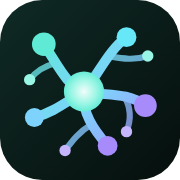
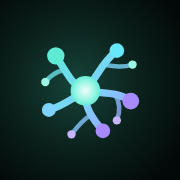
Wygląd: czat (dymki, puste stany z przykładami), mówca AI, dopracowany znak i ikony aplikacji

diff --git a/web/src/pages/Chat.tsx b/web/src/pages/Chat.tsx
@@ -1,5 +1,7 @@
 import { useEffect, useMemo, useRef, useState, useSyncExternalStore } from 'react'
 import { Card, PageHeader } from '../components/ui'
+import { Icon } from '../components/Icon'
+import { LogoMark } from '../components/Logo'
 import { L, useI18n } from '../i18n'
 import { FACT_CONF, useBrain } from '../myc/brain'
 import { chatConsent, convId, logExchange } from '../myc/chatlog'
@@ -709,14 +711,24 @@ export default function Chat() {
       <Card>
         <div className="max-h-[60vh] min-h-48 space-y-3 overflow-y-auto pr-1" data-testid="chat-log">
           {turns.length === 0 && (
-            <p className="text-sm text-slate-500">
-              {en
-                ? 'Say hi, ask “Is Riga the capital of Latvia?”, “what is a wombat?”, “what is 15% of 240?”, or paste a paragraph.'
-                : 'Przywitaj się, zapytaj „Czy Ryga jest stolicą Łotwy?”, „co to jest wombat?”, „ile to 15% z 240?” albo wklej akapit tekstu.'}
-            </p>
+            <div className="flex flex-col items-center gap-3 py-8 text-center">
+              <LogoMark size={52} className="logo-live drop-shadow-[0_0_24px_rgb(94_234_212/0.3)]" />
+              <p className="max-w-md text-sm text-slate-400">
+                {en
+                  ? 'Say hi, ask “Is Riga the capital of Latvia?”, “what is a wombat?”, “what is 15% of 240?”, or paste a paragraph.'
+                  : 'Przywitaj się, zapytaj „Czy Ryga jest stolicą Łotwy?”, „co to jest wombat?”, „ile to 15% z 240?” albo wklej akapit tekstu.'}
+              </p>
+              <div className="flex flex-wrap justify-center gap-2">
+                {(en ? ['Is Riga the capital of Latvia?', 'what is a wombat?', 'what is 15% of 240?'] : ['Czy Ryga jest stolicą Łotwy?', 'co to jest wombat?', 'ile to 15% z 240?']).map((q) => (
+                  <button key={q} type="button" onClick={() => setInput(q)} className="chip border-spore/25 px-3 py-1.5 text-slate-200 hover:border-spore/50 hover:bg-spore/10">
+                    {q}
+                  </button>
+                ))}
+              </div>
+            </div>
           )}
           {turns.map((t, i) => (
-            <div key={i} className={t.role === 'user' ? 'ml-auto max-w-[85%] whitespace-pre-wrap rounded-2xl bg-spore/10 px-3 py-2 text-sm text-slate-100' : 'max-w-[95%]'}>
+            <div key={i} className={t.role === 'user' ? 'ml-auto max-w-[85%] whitespace-pre-wrap rounded-2xl rounded-br-md bg-gradient-to-br from-spore/20 to-sky/10 px-3.5 py-2.5 text-sm text-slate-50 ring-1 ring-spore/20' : 'max-w-[95%] rounded-2xl rounded-bl-md bg-white/[0.03] px-3.5 py-2.5 ring-1 ring-white/[0.06]'}>
               {t.role === 'user' && (
                 <>
                   {t.text}
@@ -753,7 +765,7 @@ export default function Chat() {
                       </span>
                     )}
                   </div>
-                  <div className="whitespace-pre-wrap text-sm text-slate-200" data-testid="reply">
+                  <div className="whitespace-pre-wrap text-[0.95rem] leading-relaxed text-slate-100" data-testid="reply">
                     {t.text ||
                       (busy && i === turns.length - 1
                         ? t.mode === 'local'
@@ -789,7 +801,7 @@ export default function Chat() {
                     <button
                       disabled={t.saved}
                       onClick={() => save(i)}
-                      className="mt-2 rounded-lg border border-violet/40 px-3 py-1 text-xs text-violet disabled:opacity-60"
+                      className="mt-2 rounded-full border border-violet/40 px-3 py-1 text-xs font-medium text-violet hover:bg-violet/10 disabled:opacity-60"
                       data-testid="chat-save"
                     >
                       {t.saved
@@ -843,11 +855,11 @@ export default function Chat() {
             }}
             maxLength={4000}
             placeholder={en ? 'Type a message… (Shift+Enter = new line)' : 'Napisz wiadomość… (Shift+Enter = nowa linia)'}
-            className="w-full resize-y rounded-xl border border-white/10 bg-ink/60 px-3 py-2 text-sm"
+            className="w-full resize-y rounded-2xl border border-white/10 bg-black/30 px-3.5 py-2.5 text-[0.95rem] placeholder:text-slate-500"
             data-testid="chat-input"
           />
-          <button disabled={busy} className="rounded-xl border border-spore/40 px-4 text-sm text-spore disabled:opacity-50" data-testid="chat-send">
-            {en ? 'Send' : 'Wyślij'}
+          <button disabled={busy} className="btn-primary shrink-0 px-4 font-semibold disabled:opacity-50" data-testid="chat-send">
+            {en ? 'Send' : 'Wyślij'} <Icon name="arrow" size={15} />
           </button>
         </form>
       </Card>

diff --git a/web/src/components/Logo.tsx b/web/src/components/Logo.tsx
@@ -19,12 +19,19 @@ export function LogoMark({ size = 36, tile = true, className = '' }: { size?: nu
           <stop offset=".6" stopColor="#99f6e4" />
           <stop offset="1" stopColor="#5eead4" />
         </radialGradient>
-        <linearGradient id={bg} x1="0" y1="0" x2="64" y2="64" gradientUnits="userSpaceOnUse">
-          <stop offset="0" stopColor="#0f2a25" />
-          <stop offset="1" stopColor="#060f0d" />
+        <radialGradient id={bg} cx="27" cy="30" r="44" gradientUnits="userSpaceOnUse">
+          <stop offset="0" stopColor="#16443a" />
+          <stop offset=".55" stopColor="#0a1f1a" />
+          <stop offset="1" stopColor="#030908" />
+        </radialGradient>
+        <linearGradient id={`r${id}`} x1="0" y1="0" x2="64" y2="64" gradientUnits="userSpaceOnUse">
+          <stop offset="0" stopColor="#5eead4" stopOpacity=".55" />
+          <stop offset=".5" stopColor="#5eead4" stopOpacity=".08" />
+          <stop offset="1" stopColor="#a78bfa" stopOpacity=".45" />
         </linearGradient>
       </defs>
       {tile && <rect width="64" height="64" rx="15" fill={`url(#${bg})`} />}
+      {tile && <rect x=".75" y=".75" width="62.5" height="62.5" rx="14.25" fill="none" stroke={`url(#r${id})`} strokeWidth="1.5" />}
       <g transform={tile ? 'translate(5.5 4.8) scale(.84)' : undefined}>
         <g fill="none" stroke={`url(#${h})`} strokeLinecap="round">
           <g strokeWidth="4.2" className="logo-hypha">
@@ -63,8 +70,8 @@ export function LogoMark({ size = 36, tile = true, className = '' }: { size?: nu
 export function Wordmark({ sub }: { sub?: string }) {
   return (
     <div className="leading-tight">
-      <div className="text-[1.05rem] font-semibold tracking-tight text-slate-50">
-        Mycelium <span className="bg-gradient-to-r from-spore to-violet bg-clip-text text-transparent">AI</span>
+      <div className="font-display text-[1.1rem] font-semibold tracking-tight text-slate-50">
+        Mycelium <span className="text-gradient">AI</span>
       </div>
       {sub && <div className="hidden text-[11px] text-slate-400 sm:block">{sub}</div>}
     </div>
